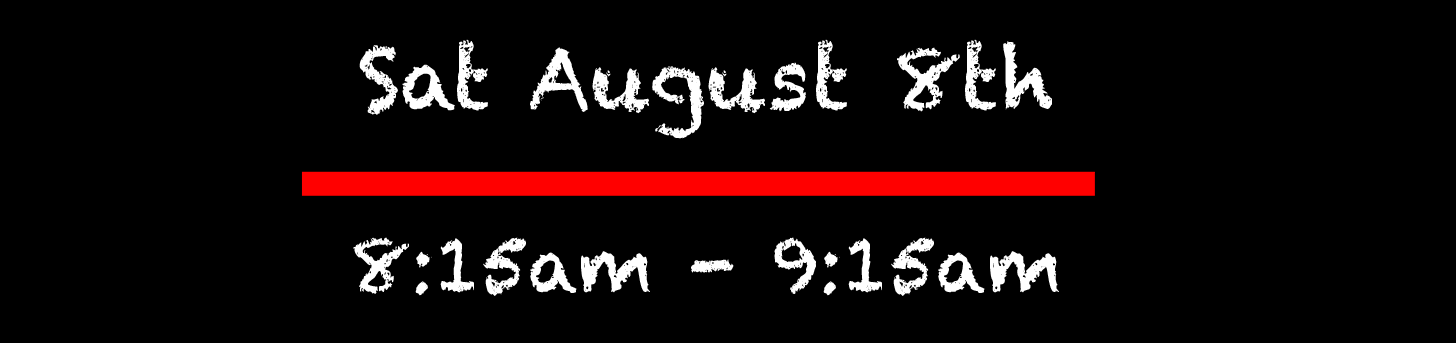
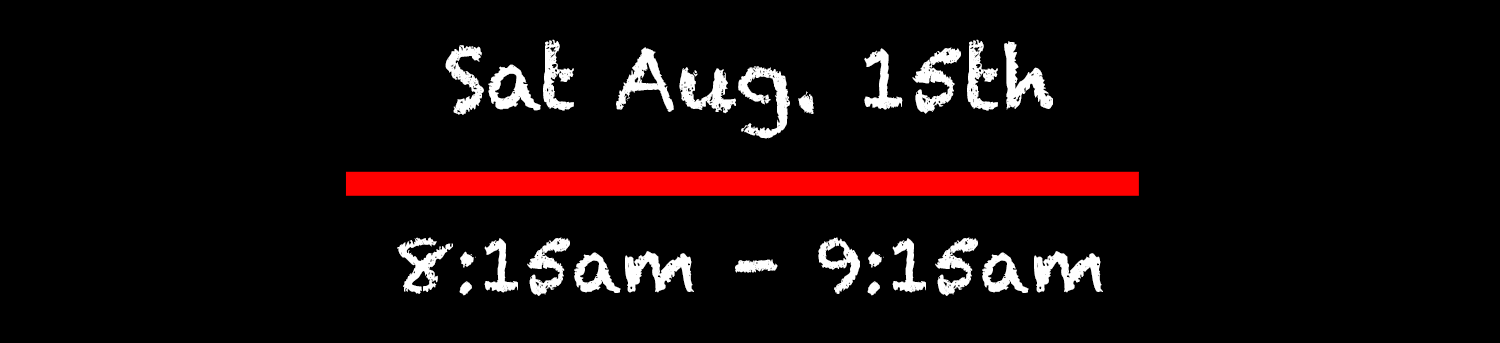
chore: update accounts and merge

diff --git a/public/main.js b/public/main.js
@@ -1,8 +1,27 @@
 // variables
 const logoContainer = document.getElementById('logo-container');
 const email_input = document.getElementById('email-input');
-const newsletterForm = document.getElementById('newsletter-form')
+const newsletterForm = document.getElementById('newsletter-form');
+const emailRegex = /^[a-zA-Z0-9._%+-]+@[a-zA-Z0-9.-]+\.[a-zA-Z]{2,}$/
+const hamburger_menu = document.getElementById('hamburger-menu');
+const hamburger_spans = [...hamburger_menu.children];
+const span_rotate = 'span-rotate'
+const hamburger_opens = ['top','mid','bottom']
+
+
+
 // functions
+// toggle hamburger with children & value (true/false)
+function toggleHamburgerMenu(children) {
+    for(let i = 0; i < children.length; i++) {
+        // console.log(children[i])
+        // console.log(children.indexOf(children[i]))
+
+        // toggle each span
+        children[i].classList.toggle(`${span_rotate}-${hamburger_opens[i]}`)
+    }
+}
+toggleHamburgerMenu(hamburger_spans)
 function handleWindowScroll(e) {
     const {scrollY} = window;
     const isPast = (y) => y > 0;
@@ -15,21 +34,10 @@ function handleWindowScroll(e) {
         logoContainer.classList.remove('fixed-logo');
     }
 }
-
 // onscroll event
 window.onscroll = handleWindowScroll
 
-
-export function vibrateMode() {
-    if(navigator.vibrate) {
-        navigator.vibrate(133);
-
-        console.log('vibration success')
-        // alert('vibration success')
-    }
-}
-
-let emailRegex = /^[a-zA-Z0-9._%+-]+@[a-zA-Z0-9.-]+\.[a-zA-Z]{2,}$/
+// verify email
 function verifyEmail(value) {
     return emailRegex.test(value);
 }
@@ -38,6 +46,7 @@ if(email_input){
     email_input.oninput = handleEmailInput
 }
 
+// handle email input
 function handleEmailInput(e) {
     const target = e.target;
     const value = e.target.value;
@@ -55,8 +64,18 @@ function handleEmailInput(e) {
     }
 } 
 
-
+// handle submit
 function handleSubmit(e) {
     e.preventDefault()
     console.log(e)
+}
+
+// virbate mode
+export function vibrateMode() {
+    if(navigator.vibrate) {
+        navigator.vibrate(133);
+
+        console.log('vibration success')
+        // alert('vibration success')
+    }
 }

diff --git a/public/styles.css b/public/styles.css
@@ -4,10 +4,52 @@
     box-sizing: border-box;
     text-decoration: none;
     -webkit-user-select: none; /* Safari */
-    -ms-user-select: none;      /* IE 10+ */
+    -ms-user-select: none;    /* IE 10+ */
     user-select: none; 
 }
+#hamburger-menu:hover {
+    cursor:pointer;
+    transform:scale(.9);
+}
+#hamburger-menu {
+    /* display:none; */
 
+    transition: .25s;
+    height:50px;
+    width:50px;
+
+    position:absolute;
+    right:0px;
+    top:0px;
+
+    display:flex;
+    flex-direction: column;
+    align-items: center;
+    justify-content: center;
+
+    gap:.5rem;
+}
+
+.span-rotate-top {
+    transform:translate(0,40px);
+    opacity:0;
+}
+
+.span-rotate-mid {
+    transform: rotate(-45deg) translate(-10px);
+}
+.span-rotate-bottom {
+    transform: rotate(45deg) translate(-10px, 2px);;
+}
+
+#hamburger-menu > span {
+    transition: 1.25s;
+
+    width:90%;
+    height:5px;
+
+    background:greenyellow;
+}
 #class-schedule-container {
     border:2px solid red;
     height:400px;

diff --git a/public/index.html b/public/index.html
@@ -19,6 +19,19 @@
         </div>
     </header>
 
+
+    <!-- user accounts -->
+     
+    <!-- hamburger menu -->
+     <div id="hamburger-menu">
+        <span ></span>
+        <span id="mid"></span>
+        <span></span>
+     </div>
+
+     <!-- navigation menu (desktop & mobile) -->
+      <nav></nav>
+
     <main>
 
         <div id="details-container">
